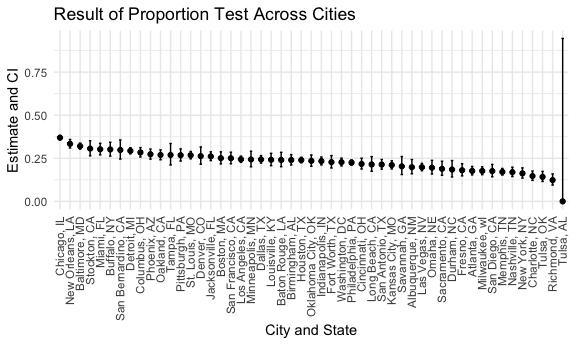
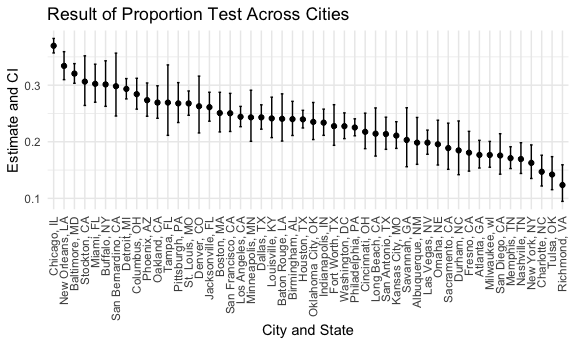
fixing things

diff --git a/p8105_hw5_yl5221.md b/p8105_hw5_yl5221.md
@@ -69,22 +69,27 @@ homicide_df =
   read_csv("./data/homicide-data.csv") %>% 
   mutate(
     city_state = str_c(city, ", ", state)
-  )
+  ) 
 ```
 
 Below is a data frame showing number of total cases and unsolved cases
-for each city.
+for 50 city. There’s a Tulsa, AL row I found in the below data frame
+where state might be entered wrong. I combined it to the Tulsa, OK row.
 
 ``` r
 unsolved_df =
   homicide_df %>% 
-  group_by(city_state) %>% 
+  mutate(city_state = case_when(
+   city_state == "Tulsa, AL" ~ "Tulsa, OK",
+  TRUE ~ city_state
+)) %>% 
+group_by(city_state) %>% 
   summarize(total = n(), unsolved = sum(str_count(disposition, c("Closed without arrest", "Open/No arrest"))))
 
 unsolved_df
 ```
 
-    ## # A tibble: 51 × 3
+    ## # A tibble: 50 × 3
     ##    city_state      total unsolved
     ##    <chr>           <int>    <int>
     ##  1 Albuquerque, NM   378       75
@@ -97,7 +102,7 @@ unsolved_df
     ##  8 Charlotte, NC     687      101
     ##  9 Chicago, IL      5535     2046
     ## 10 Cincinnati, OH    694      151
-    ## # … with 41 more rows
+    ## # … with 40 more rows
 
 Prop.test for Baltimore
 
@@ -119,10 +124,12 @@ Writing function for extracting prop.test estimate and CI
 
 ``` r
 prop_test <- function(citystate){
-  
+   
+  #defining data to be used
    data <- unsolved_df %>% 
     filter(city_state == citystate) 
   
+  #manipulation of data
     result <- prop.test(data$unsolved, data$total) %>% 
     broom::tidy() %>% 
     select(estimate, conf.low, conf.high)
@@ -131,7 +138,7 @@ prop_test <- function(citystate){
 }
 ```
 
-Test for each city
+Data frame of t.test estimate and CI for each city
 
 ``` r
 test_results_df =
@@ -146,7 +153,7 @@ test_results_df =
 test_results_df
 ```
 
-    ## # A tibble: 51 × 4
+    ## # A tibble: 50 × 4
     ##    citystate       estimate conf.low conf.high
     ##    <chr>              <dbl>    <dbl>     <dbl>
     ##  1 Albuquerque, NM    0.198    0.160     0.243
@@ -159,9 +166,12 @@ test_results_df
     ##  8 Charlotte, NC      0.147    0.122     0.176
     ##  9 Chicago, IL        0.370    0.357     0.383
     ## 10 Cincinnati, OH     0.218    0.188     0.251
-    ## # … with 41 more rows
+    ## # … with 40 more rows
 
 ### Visualization for estimate and CI for each city
+
+Chicago has the highest estimate of proportion of unsolved cases, while
+Richmond has the lowest estimate of proportion of unsolved cases.
 
 ``` r
   test_results_df %>% 
@@ -179,10 +189,12 @@ Writing function for extracting t test estimate and p value
 ``` r
 t_test = function(mu) {
   
+  #defining data to be used
   sim_data = tibble(
     x = rnorm(mean = mu, n = 30, sd = 5)
   )
-  
+ 
+  #manipulation of data
   sim_result =
     t.test(sim_data) %>% 
     broom::tidy() %>% 
@@ -243,14 +255,16 @@ which the null is rejected becomes closer to true value of μ.They are
 approximately equal to the true value of μ.
 
 ``` r
-avg_plot1 =
-  multimean_df %>% 
+multimean_df %>% 
   group_by(mean) %>% 
   summarise(avg = mean(estimate)) %>%
   ggplot(aes(x = mean, y = avg)) + geom_point() + geom_line() + labs(x = "True Mean",y = "Average Estimate of Mean",title = "Average Estimate Mean v.s True Mean") + scale_x_continuous(limits = c(1,6), breaks = seq(1:6))
+```
 
-avg_plot2 = 
-  multimean_df %>% 
+<img src="p8105_hw5_yl5221_files/figure-gfm/unnamed-chunk-14-1.png" width="90%" />
+
+``` r
+multimean_df %>% 
   mutate(
     reject = ifelse(p.value < 0.05, 1, 0)
   )  %>% 
@@ -258,14 +272,6 @@ avg_plot2 =
   group_by(mean) %>% 
   summarise(avg = mean(estimate)) %>%
   ggplot(aes(x = mean, y = avg)) + geom_point() + geom_line() + labs(x = "True Mean",y = "Average Estimate of Mean of Rejected",title = "Average Estimate Mean of Rejected v.s True Mean") + scale_x_continuous(limits = c(1,6), breaks = seq(1:6))
-
-avg_plot1 
-```
-
-<img src="p8105_hw5_yl5221_files/figure-gfm/unnamed-chunk-14-1.png" width="90%" />
-
-``` r
-avg_plot2
 ```
 
 <img src="p8105_hw5_yl5221_files/figure-gfm/unnamed-chunk-14-2.png" width="90%" />
